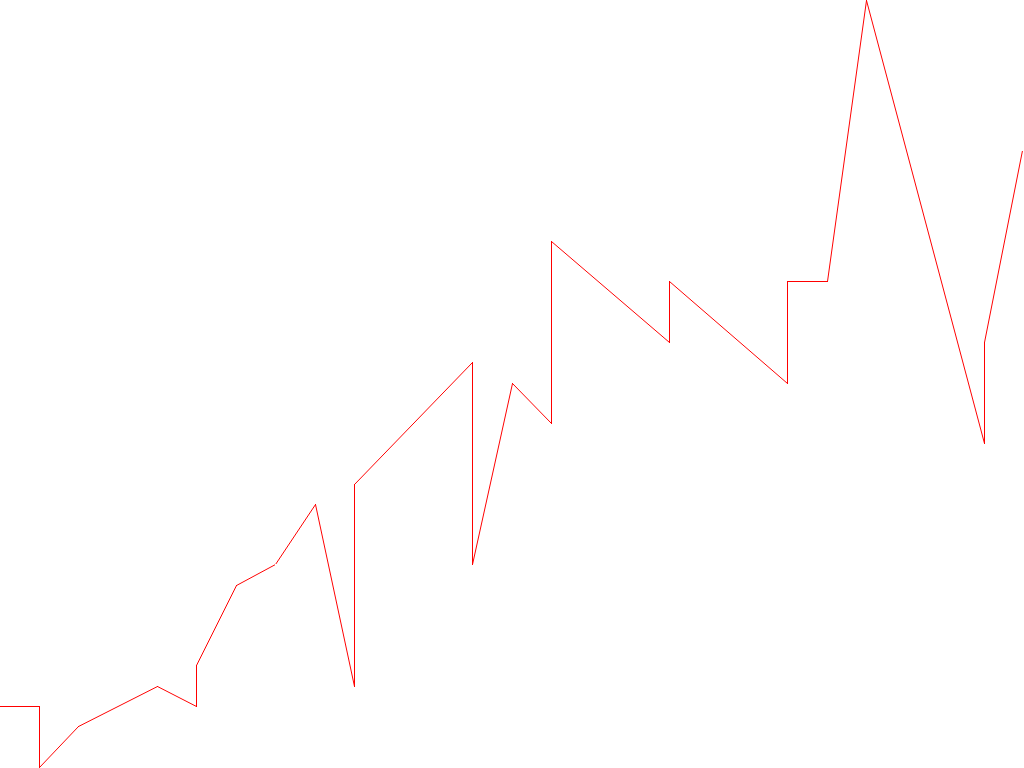
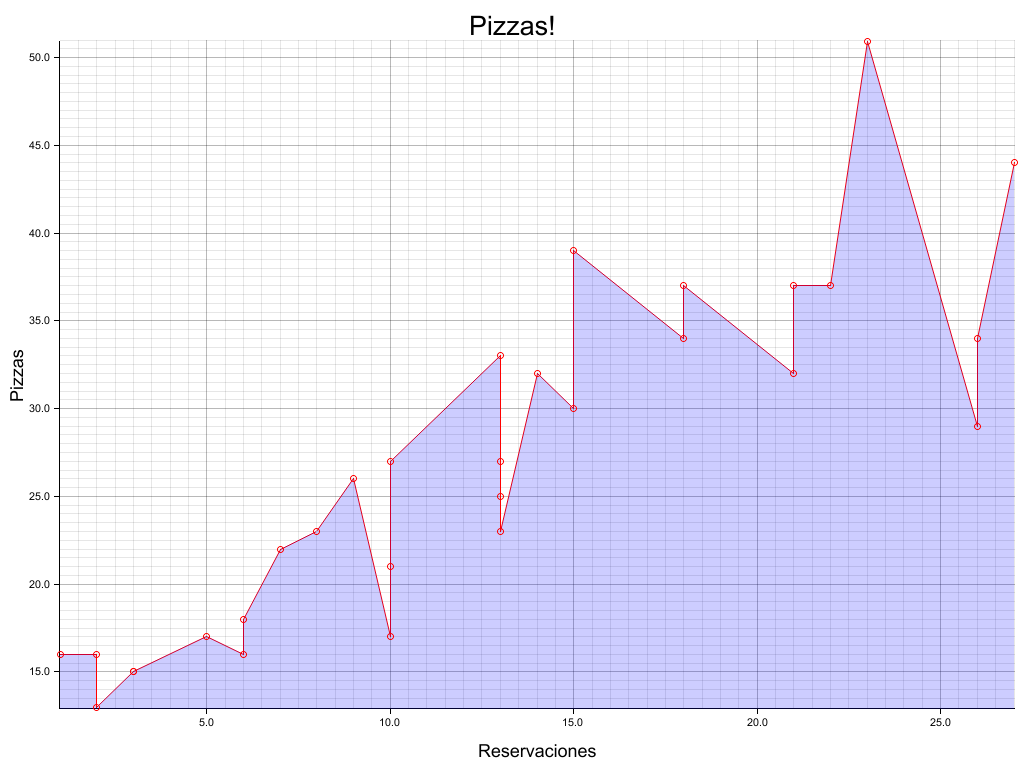
ejemplo de graficado

diff --git a/src/bin/example_plot.rs b/src/bin/example_plot.rs
@@ -1,0 +1,57 @@
+use std::error::Error;
+use std::process;
+use ordered_float::OrderedFloat;
+use plotters::prelude::*;
+
+use raven::RawFrame;
+
+fn main() {
+    if let Err(err) = run() {
+        println!("{}", err);
+        process::exit(1);
+    }
+}
+
+fn run() -> Result<(), Box<dyn Error>> {
+    let datos = RawFrame::from_arg(1)?;
+
+    let col_x = "Reservations";
+    let col_y = "Pizzas";
+
+    let extent_x: (OrderedFloat<f64>,OrderedFloat<f64>) = datos.extent_num_fil(col_x)?;
+    let extent_y: (OrderedFloat<f64>,OrderedFloat<f64>) = datos.extent_num_fil(col_y)?;
+
+    let x_range = extent_x.0.into_inner()..extent_x.1.into_inner();
+    let y_range = extent_y.0.into_inner()..extent_y.1.into_inner();
+
+
+    let drawing_area = BitMapBackend::new("./imagenes/test.png", (1024, 768)).into_drawing_area();
+
+    drawing_area.fill(&WHITE).unwrap();
+
+    let mut chart = ChartBuilder::on(&drawing_area)
+                    .caption("Pizzas!", ("Arial", 30))
+                    .margin(10)
+                    .set_label_area_size(LabelAreaPosition::Left, 50)
+                    .set_label_area_size(LabelAreaPosition::Bottom, 50)
+                    .build_cartesian_2d(x_range,y_range)?;
+
+    chart.configure_mesh()
+            .y_desc("Pizzas")
+            .x_desc("Reservaciones")
+            .axis_desc_style(("sans-serif", 20))
+            .draw().unwrap();
+
+    chart.draw_series(
+        LineSeries::new(datos.pair_col_fil_sorted(col_x,col_y)? ,&RED),
+    )?;
+
+    chart.draw_series(
+        AreaSeries::new(datos.pair_col_fil_sorted(col_x,col_y)?,0.0,&BLUE.mix(0.2)),
+    )?;
+
+    chart.draw_series(datos.pair_col_fil(col_x, col_y).unwrap().map(|point| Circle::new(point, 3, &RED)))
+        .unwrap();
+
+    Ok(())
+}

diff --git a/src/main.rs b/src/main.rs
@@ -1,7 +1,5 @@
 use std::error::Error;
 use std::process;
-use ordered_float::OrderedFloat;
-use plotters::prelude::*;
 
 use raven::RawFrame;
 
@@ -15,26 +13,7 @@ fn main() {
 fn run() -> Result<(), Box<dyn Error>> {
     let datos = RawFrame::from_arg(1)?;
 
-    let col_x = "Reservations";
-    let col_y = "Pizzas";
-
-    let extent_x: (OrderedFloat<f64>,OrderedFloat<f64>) = datos.extent_num_fil(col_x)?;
-    let extent_y: (OrderedFloat<f64>,OrderedFloat<f64>) = datos.extent_num_fil(col_y)?;
-
-    let x_range = extent_x.0.into_inner()..extent_x.1.into_inner();
-    let y_range = extent_y.0.into_inner()..extent_y.1.into_inner();
-
-
-    let drawing_area = BitMapBackend::new("./imagenes/test.png", (1024, 768)).into_drawing_area();
-
-    drawing_area.fill(&WHITE).unwrap();
-
-    let mut chart = ChartBuilder::on(&drawing_area)
-                    .build_cartesian_2d(x_range,y_range)?;
-
-    chart.draw_series(
-        LineSeries::new(datos.pair_col_fil_sorted(col_x,col_y)? ,&RED),
-    )?;
+    println!("{:?}",datos.records[0]);
 
     Ok(())
 }
